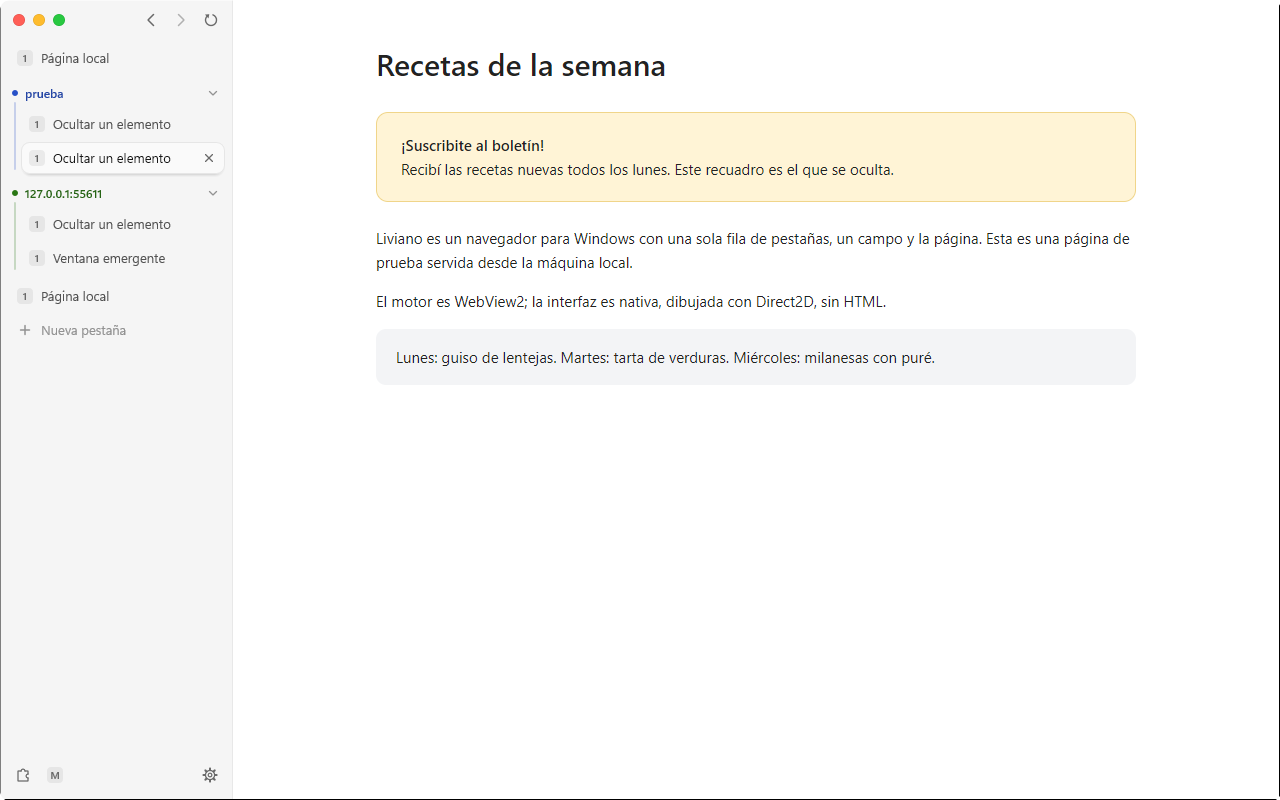
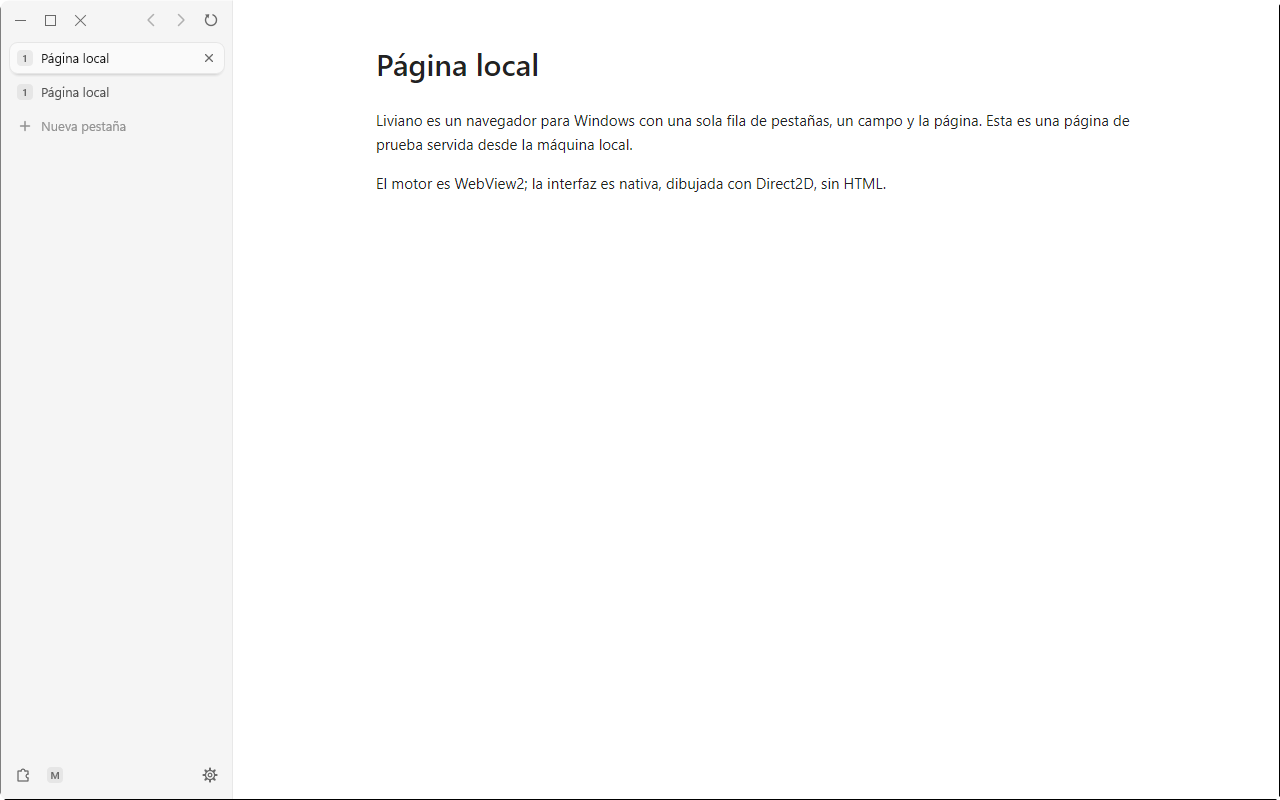
Botones de la ventana: los de Windows en chico
Exportado de liviano-dev 037f5bf.

diff --git a/src/frame.rs b/src/frame.rs
@@ -1,6 +1,6 @@
 //! The window's own frame: no title bar, the tab strip in its place and the
-//! three window buttons drawn here, at the strip's left end as macOS puts
-//! its traffic lights. This is the geometry (where the buttons and the
+//! three window buttons drawn here: Windows' own glyphs, smaller, at the
+//! strip's left end. This is the geometry (where the buttons and the
 //! caption are, and what the pointer is over: tested) and how the buttons
 //! are drawn.
 
@@ -18,17 +18,19 @@ pub enum WindowButton {
 }
 
 impl WindowButton {
-    /// Left to right, as macOS orders them: close, minimize, zoom.
-    pub const ALL: [WindowButton; 3] = [WindowButton::Close, WindowButton::Minimize, WindowButton::Maximize];
+    /// Left to right, in Windows' order.
+    pub const ALL: [WindowButton; 3] = [WindowButton::Minimize, WindowButton::Maximize, WindowButton::Close];
 }
 
-/// Width each button answers to: the 12 px light with 4 px either side, so
-/// the three touch and a near miss still lands on one.
-pub const BUTTON_W: i32 = 20;
-/// The light itself (macOS draws its traffic lights 12 px across).
-const LIGHT: f32 = 12.0;
+/// Width each button answers to: Windows 11's are 46, these 30.
+pub const BUTTON_W: i32 = 30;
+/// The ground a button wears under the pointer, centred in its area.
+const GROUND_W: f32 = 26.0;
+const GROUND_H: f32 = 24.0;
+/// The glyphs' box: Windows draws 10 px, these 9.
+const GLYPH: f32 = 9.0;
 /// From the window's left edge to the first button's area.
-pub const LEAD: i32 = 8;
+pub const LEAD: i32 = 4;
 /// Height of the caption row when the tabs are hidden (collapsed column).
 pub const ROW: i32 = 32;
 /// The band along the top edge that resizes the window while it is not
@@ -42,7 +44,7 @@ const CORNER: i32 = 16;
 #[derive(Clone, Copy, Debug, Default, PartialEq)]
 pub struct Frame {
     pub caption: Rect,
-    /// Close, minimize and maximize, left to right.
+    /// Minimize, maximize and close, left to right.
     pub buttons: [Rect; 3],
 }
 
@@ -127,26 +129,15 @@ pub fn client_top(window_top: i32, maximized: bool, frame: i32) -> i32 {
     if maximized { window_top + frame } else { window_top }
 }
 
-/// One traffic light: its fill, its rim and the glyph that shows on it
-/// while the pointer is over the three (macOS's own colours).
-struct Light {
-    fill: Rgb,
-    rim: Rgb,
-    glyph: Rgb,
-}
+/// Windows' red under the close button, and its ink there.
+const CLOSE_HOVER: Rgb = Rgb(0xC4, 0x2B, 0x1C);
+const CLOSE_PRESSED: Rgb = Rgb(0xC8, 0x40, 0x31);
+const CLOSE_INK: Rgb = Rgb(0xFF, 0xFF, 0xFF);
 
-fn light(button: WindowButton) -> Light {
-    match button {
-        WindowButton::Close => Light { fill: Rgb(0xFF, 0x5F, 0x57), rim: Rgb(0xE2, 0x46, 0x3F), glyph: Rgb(0x4D, 0x00, 0x00) },
-        WindowButton::Minimize => Light { fill: Rgb(0xFE, 0xBC, 0x2E), rim: Rgb(0xE1, 0xA1, 0x16), glyph: Rgb(0x99, 0x57, 0x00) },
-        WindowButton::Maximize => Light { fill: Rgb(0x28, 0xC8, 0x40), rim: Rgb(0x14, 0xAE, 0x2E), glyph: Rgb(0x00, 0x65, 0x00) },
-    }
-}
-
-/// Draws the three lights. `hover` gives each one's fade (0..1): over any
-/// of them all three show their glyphs, as on macOS. In a window that is
-/// not the active one they go grey, and get their colour back under the
-/// pointer.
+/// Draws the three buttons: thin glyphs on nothing, a soft rounded ground
+/// under the pointer (red under close, as Windows does). `hover` gives each
+/// one's fade (0..1). In a window that is not the active one the glyphs go
+/// quieter.
 #[allow(clippy::too_many_arguments)]
 pub fn paint(
     g: &Painter,
@@ -158,57 +149,61 @@ pub fn paint(
     pressed: Option<WindowButton>,
     hover: impl Fn(WindowButton) -> f32,
 ) {
-    let over = WindowButton::ALL.iter().map(|b| hover(*b)).fold(0.0f32, f32::max);
-    let colour = if active { 1.0 } else { over };
-    let (idle_fill, idle_rim) = if pal.dark { (Rgb::grey(0x4A), Rgb::grey(0x40)) } else { (Rgb::grey(0xD6), Rgb::grey(0xC6)) };
+    let rest = if active { pal.ink_muted } else { pal.ink_asleep };
+    let radius = crate::design::size::RADIUS_CONTROL * scale;
     for button in WindowButton::ALL {
         let area: RectF = frame.rect_of(button).into();
         if area.width() <= 0.0 {
             continue;
         }
+        let over = hover(button);
+        let down = pressed == Some(button) && over > 0.0;
         let (cx, cy) = area.center();
-        let r = LIGHT * scale / 2.0;
-        let disc = RectF::new(cx - r, cy - r, cx + r, cy + r);
-        let l = light(button);
-        let mut fill = idle_fill.mix(l.fill, colour);
-        if pressed == Some(button) && hover(button) > 0.0 {
-            fill = fill.mix(Rgb::grey(0x00), 0.2);
-        }
-        g.round(disc, r, idle_rim.mix(l.rim, colour));
-        let rim = 0.5 * scale.max(1.0);
-        g.round(disc.inset(rim, rim), r - rim, fill);
+        let (hw, hh) = (GROUND_W * scale / 2.0, GROUND_H * scale / 2.0);
+        let ground = RectF::new(cx - hw, cy - hh, cx + hw, cy + hh);
+        let (fill, lit) = match (button, down) {
+            (WindowButton::Close, false) => (CLOSE_HOVER, CLOSE_INK),
+            (WindowButton::Close, true) => (CLOSE_PRESSED, CLOSE_INK),
+            (_, false) => (pal.tab_hover, pal.ink),
+            (_, true) => (pal.pin_live, pal.ink),
+        };
         if over > 0.0 {
-            draw_glyph(g, (cx, cy), button, maximized, Color::from(l.glyph).with_alpha(over), scale);
+            g.round(ground, radius, Color::from(fill).with_alpha(over));
+        }
+        draw_glyph(g, (cx, cy), button, maximized, Color::from(rest.mix(lit, over)), scale);
+    }
+}
+
+/// Windows' glyphs, hairline: a dash, a square (two offset ones once
+/// maximized) and a cross.
+fn draw_glyph(g: &Painter, (cx, cy): (f32, f32), button: WindowButton, maximized: bool, ink: Color, scale: f32) {
+    let w = scale.max(1.0);
+    let h = (GLYPH * scale / 2.0).round();
+    // Hairlines on pixel centres stay crisp.
+    let (cx, cy) = (cx.floor() + 0.5, cy.floor() + 0.5);
+    match button {
+        WindowButton::Minimize => g.line((cx - h, cy), (cx + h, cy), w, ink),
+        WindowButton::Maximize if maximized => {
+            let o = (2.0 * scale).round();
+            // The window behind: only its top and right edges show.
+            g.line((cx - h + o, cy - h + o), (cx - h + o, cy - h), w, ink);
+            g.line((cx - h + o, cy - h), (cx + h, cy - h), w, ink);
+            g.line((cx + h, cy - h), (cx + h, cy + h - o), w, ink);
+            g.line((cx + h, cy + h - o), (cx + h - o, cy + h - o), w, ink);
+            stroke_box(g, RectF::new(cx - h, cy - h + o, cx + h - o, cy + h), w, ink);
+        }
+        WindowButton::Maximize => stroke_box(g, RectF::new(cx - h, cy - h, cx + h, cy + h), w, ink),
+        WindowButton::Close => {
+            g.line((cx - h, cy - h), (cx + h, cy + h), w, ink);
+            g.line((cx - h, cy + h), (cx + h, cy - h), w, ink);
         }
     }
 }
 
-/// The glyph a light shows under the pointer: a cross, a dash, and two
-/// arrowheads pointing out (maximize) or in (restore).
-fn draw_glyph(g: &Painter, (cx, cy): (f32, f32), button: WindowButton, maximized: bool, ink: Color, scale: f32) {
-    let s = |v: f32| v * scale;
-    let w = s(1.1);
-    match button {
-        WindowButton::Close => {
-            let a = s(2.5);
-            g.line((cx - a, cy - a), (cx + a, cy + a), w, ink);
-            g.line((cx - a, cy + a), (cx + a, cy - a), w, ink);
-        }
-        WindowButton::Minimize => g.line((cx - s(3.0), cy), (cx + s(3.0), cy), w, ink),
-        WindowButton::Maximize => {
-            // Two right triangles on the diagonal, their square corners
-            // away from the centre to grow and toward it to shrink back.
-            let leg = s(3.6);
-            if maximized {
-                let n = s(0.7);
-                g.polygon(&[(cx - n, cy - n), (cx - n - leg, cy - n), (cx - n, cy - n - leg)], ink);
-                g.polygon(&[(cx + n, cy + n), (cx + n + leg, cy + n), (cx + n, cy + n + leg)], ink);
-            } else {
-                let f = s(3.4);
-                g.polygon(&[(cx - f, cy - f), (cx - f + leg, cy - f), (cx - f, cy - f + leg)], ink);
-                g.polygon(&[(cx + f, cy + f), (cx + f - leg, cy + f), (cx + f, cy + f - leg)], ink);
-            }
-        }
-    }
+fn stroke_box(g: &Painter, r: RectF, w: f32, ink: Color) {
+    g.line((r.left, r.top), (r.right, r.top), w, ink);
+    g.line((r.right, r.top), (r.right, r.bottom), w, ink);
+    g.line((r.right, r.bottom), (r.left, r.bottom), w, ink);
+    g.line((r.left, r.bottom), (r.left, r.top), w, ink);
 }
 

diff --git a/src/app.rs b/src/app.rs
@@ -603,7 +603,7 @@ unsafe extern "system" fn window_proc(hwnd: HWND, msg: u32, wparam: WPARAM, lpar
         WM_NCACTIVATE => {
             // Keep the title bar looking active while our own popup has focus.
             let omnibar_open = with_app(|app| app.mode.is_some()).unwrap_or(false);
-            // The traffic lights go grey in a window in the background.
+            // The window buttons go quieter in a window in the background.
             with_app(|app| app.set_window_active(wparam.0 != 0 || omnibar_open));
             if omnibar_open && wparam.0 == 0 {
                 return unsafe { DefWindowProcW(hwnd, msg, WPARAM(1), lparam) };

diff --git a/src/tabbar.rs b/src/tabbar.rs
@@ -580,7 +580,7 @@ pub struct Paint<'a> {
     pub maximized: bool,
     /// A window button held down.
     pub pressed: Option<WindowButton>,
-    /// The window is the active one: its lights wear their colours.
+    /// The window is the active one: its buttons wear their full ink.
     pub window_active: bool,
     /// Which of back, forward and reload can act.
     pub nav: NavState,

diff --git a/src/app/frame_ui.rs b/src/app/frame_ui.rs
@@ -47,7 +47,7 @@ pub(super) struct FrameUi {
     pub(super) pressed: Option<WindowButton>,
     /// Leaving the non-client maximize button is being watched.
     nc_tracking: bool,
-    /// The window is in the background (its lights go grey).
+    /// The window is in the background (its buttons go quieter).
     pub(super) inactive: bool,
 }
 

diff --git a/README.md b/README.md
@@ -41,18 +41,15 @@ entrada. En reposo no hay timer: 0 % de CPU. Si Windows tiene las
 animaciones apagadas, todo llega de una.
 
 No hay barra de título: las pestañas ocupan su lugar y los botones de la
-ventana son tres semáforos de 12 px, como en macOS, al principio de la fila:
-cerrar (rojo), minimizar (amarillo) y maximizar (verde). Con las pestañas
-arriba van antes de las pestañas; al costado, arriba a la izquierda de la
-columna; ocultas, a la izquierda de la fila de la ventana. Su glifo aparece al
-pasar el puntero por cualquiera de los tres, y con la ventana inactiva se ven
-grises. El espacio libre de la fila mueve la ventana, con doble clic la
-maximiza y con clic derecho abre el menú de la ventana; pasar el mouse por
-el verde muestra los diseños de ajuste de Windows 11. La sombra, los bordes
-para cambiar el tamaño (también el de arriba) y las esquinas siguen siendo
-los de Windows.
+ventana son los de Windows en chico, al principio de la fila: minimizar,
+maximizar y cerrar, con glifos finos de 9 px en zonas de 30 px (los de
+Windows 11 miden 46). Con las pestañas arriba van antes de las pestañas; al
+costado, arriba a la izquierda de la columna; ocultas, a la izquierda de la
+fila de la ventana. Al pasar el puntero se les pone un fondo suave, rojo bajo
+cerrar, y con la ventana inactiva sus glifos se apagan. Sobre maximizar
+aparecen los diseños de ajuste de Windows.
 
-Al lado de los semáforos están **Atrás, Adelante y Recargar** (al costado, a la
+Al lado de esos botones están **Atrás, Adelante y Recargar** (al costado, a la
 derecha de esa misma fila, como en Arc). Siguen a la pestaña activa: una
 flecha sin adónde ir se ve apagada y no responde. Clic derecho, o mantener
 apretada una flecha, abre el historial de la pestaña hacia ese lado (hasta
@@ -81,7 +78,7 @@ queda).
 |---|---|
 | ![Pestañas arriba, tema claro](docs/capturas/tira-arriba-claro.png) | ![Pestañas arriba, tema oscuro](docs/capturas/tira-arriba-oscuro.png) |
 | ![Pestañas al costado, tema claro](docs/capturas/tira-costado-claro.png) | ![Pestañas al costado, tema oscuro](docs/capturas/tira-costado-oscuro.png) |
-| ![Semáforos con el puntero encima](docs/capturas/tira-arriba-claro-semaforo.png) | ![Semáforos al costado, tema oscuro](docs/capturas/tira-costado-oscuro-semaforo.png) |
+| ![Botones de la ventana con el puntero encima](docs/capturas/tira-arriba-claro-botones.png) | ![Botones de la ventana al costado, tema oscuro](docs/capturas/tira-costado-oscuro-botones.png) |
 | ![El engranaje con su tooltip](docs/capturas/engranaje-claro.png) | ![El engranaje con su tooltip, tema oscuro](docs/capturas/engranaje-oscuro.png) |
 | ![Campo único abierto](docs/capturas/campo-claro.png) | ![Campo único, tema oscuro](docs/capturas/campo-oscuro.png) |
 | ![Ajustes, tema claro](docs/capturas/ajustes-claro.png) | ![Ajustes, tema oscuro](docs/capturas/ajustes-oscuro.png) |

diff --git a/docs/diseno.md b/docs/diseno.md
@@ -23,7 +23,7 @@ tokens están en `src/design.rs` y los movimientos en `src/anim.rs`
 | Botón | alto 26 px, esquina field, primario de marca, secundario con contorno | celagem `src/lib/components/button/recipe.ts` |
 | Casilla | esquina 4, borde `line-strong`, hover brand/40, marcada en brand con tilde blanco | celagem `src/lib/components/checkbox/` (receta de HKUI) |
 | Grupos de pestañas | nueve tonos: gris, azul, rojo, amarillo, verde, rosa, violeta, cian y naranja; en claro el paso `ink` del tono, en oscuro el `solid` (el relleno, ≥ 3:1 sobre la tira). El nombre se escribe en el color del grupo, llevado hacia la tinta un 20 % (25 % en oscuro), sobre un tinte del tono al 10 % (14 % en oscuro): ≥ 4.5:1 sobre la tira, sobre el tinte y con hover (lo comprueba un test). Arriba: etiqueta de alto 22, esquina control, texto small (12) medium, como el título de una pestaña; sin nombre, un punto de 6 px; línea de 1.5 px. Al costado: fila de 26, punto de 6 px, nombre (o el sitio de la primera pestaña), guía de 1 px y pestañas corridas 12 px | celagem `brand.css` (`--color-tone-*`) |
-| Botones de la ventana | semáforos de macOS: círculos de 12 px en zonas de 20 px, a 8 px del borde. Cerrar #FF5F57, minimizar #FEBC2E, maximizar #28C840, con su glifo al pasar el puntero por cualquiera; grises con la ventana inactiva | macOS (no hay equivalente en celagem) |
+| Botones de la ventana | los glifos de Windows (guion, cuadrado, cruz) en trazo fino de 9 px, en zonas de 30 px a 4 px del borde izquierdo; al pasar el puntero, un fondo de 26 × 24 con el radio de control (`tab_hover`; rojo #C42B1C con tinta blanca bajo cerrar); `ink_muted` en reposo, `ink_asleep` con la ventana inactiva | Windows 11, más chico |
 | Atrás, adelante, recargar | botones de 28×28, fondo fantasma con hover; apagados en `subtle` sin hover; trazo de 1.5 px | celagem `button/recipe.ts` (variante `ghost`) |
 
 El tema oscuro es nuestro, porque celagem no tiene. Mantiene los mismos
